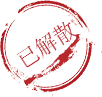
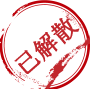
修改切换班级样式

diff --git a/js/interestPractice/classList.js b/js/interestPractice/classList.js
@@ -5,7 +5,7 @@ $(function () {
     inquireClass()
 });
 
-
+//“不了” 关闭弹窗
 $(".without-footer .withdraw-refuse ").click(function () {
     $(".without-class").toggle();
 });
@@ -22,6 +22,7 @@ function withdrawClass(id) {
     $(".without-class").toggle();
     $(".without-class .without-footer .withdraw-sure").attr("onclick", "exitClass(" + id + ")");
 }
+
 //退出班级
 function exitClass(id) {
     var url = "studentClass/deleteStudentClass.do";
@@ -37,12 +38,6 @@ function exitClass(id) {
     })
 }
 
-//添加班级按钮
-function addClass() {
-    $(".without-class .without-body").html("<span>班级编号：</span><input class='append-class' placeholder='请输入你想加入的班级'><p class='add-notice'></p>");
-    $(".without-class .without-footer .withdraw-sure").attr("onclick", "addNewclass()");
-    $(".without-class").show();
-}
 
 //添加班级
 function addNewclass() {
@@ -60,6 +55,13 @@ function addNewclass() {
             $(".empty-tips").text(message)
         }
     })
+}
+
+//添加班级按钮
+function addClass() {
+    $(".without-class .without-body").html("<span>班级编号：</span><input class='append-class' placeholder='请输入你想加入的班级'><p class='add-notice'></p>");
+    $(".without-class .without-footer .withdraw-sure").attr("onclick", "addNewclass()");
+    $(".without-class").show();
 }
 
 
@@ -98,7 +100,7 @@ function inquireClass() {
                             "</li>");
                         _classWrap.append(_classList);
                     } else {
-                        _classList = $("<li><p class='class-name' >" + d.grade + "年级" + d.name + "</p>" +
+                        _classList = $("<li><p class='class-name' >" + d.grade + "年级" + d.name + "(" + d.classId + ")" + "</p>"  +
                             "<p class='class-number'>" + d.totalStudent + "人</p>" +
                             "<p class='completed-work'>待完成作业</p>" +
                             "<p class='completed-work-text'><span class='finished-work'>" + d.complateHomework + "</span>/<span class='total-work'>" + d.totalHomework + "</span></p>" +
@@ -117,4 +119,3 @@ function inquireClass() {
         } else {}
     })
 }
-

diff --git a/js/interestPractice/myClass.js b/js/interestPractice/myClass.js
@@ -15,6 +15,7 @@ function jumpMate() {
     var id = getParam("id");
     window.location.href = './myClassmate.html?id=' + id;
 }
+
 //作业模考切换
 $(".task-title li").click(function () {
     $(this).addClass("current").siblings().removeClass("current");
@@ -64,21 +65,29 @@ function getClass() {
             var noCurrent = [];
             for (var i = 0; i < data.length; i++) {
                 if (data[i].id == _current) {
-                    $("#currentClass").text(data[i].grade + '年级' + data[i].name)
+                    $("#currentClass").text(data[i].grade + '年级' + data[i].name + '(' + data[i].classId + ')')
                 } else {
                     noCurrent.push(data[i]);
                 }
             }
             for (var i = 0; i < noCurrent.length; i++) {
-                var _getList = "";
-                var d = noCurrent[i];
-                _getList = $("<li>" + d.grade + "年级" + d.name + "</li>");
-                _getClass.prepend(_getList);
+                if (noCurrent[i].diss != null) {
+                    console.log(data[i].diss);
+                    var _getList = "";
+                    var d = noCurrent[i];
+                    _getList = $("<li onclick=\"choiceClass(" + d.id + ")\">" + d.grade + "年级" + d.name + "(" + d.classId + ")" + "</li>");
+                    _getClass.prepend(_getList);
+                }
+
             }
         }
     })
 }
+
 //切换班级选中状态
+function choiceClass(id) {
+    window.location.href = './myClass.html?id=' + id;
+}
 
 //获取作业信息
 function getWork() {

diff --git a/css/interestPractice/myClass.css b/css/interestPractice/myClass.css
@@ -57,7 +57,6 @@ body {
     margin-left: 4px;
     background: #fff;
     border-radius: 5px;
-    position: relative;
 }
 
 #footer {
@@ -72,11 +71,11 @@ body {
     height: 48px;
     padding-top: 20px;
     margin: 0 auto;
-    /*background: #f0ad4e;*/
     font-size: 16px;
     font-weight: 300;
     letter-spacing: 1px;
     color: #333;
+    position: relative;
 }
 
 .present-class p,
@@ -88,29 +87,34 @@ body {
     float: right;
     cursor: pointer;
 }
-.present-class .my-classmate img{
+
+.present-class .my-classmate img {
     width: 21px;
     height: 28px;
     vertical-align: bottom;
     margin-right: 5px;
 }
+
 .present-class #present-class {
     font-size: 18px;
     color: #00a0e9;
 }
 
 #currentClass {
-    width: 125px;
-    margin: 0 5px;
+    width: 135px;
+    margin: 0 9px 0 5px;
     font-size: 16px;
+    text-overflow: ellipsis;
+    white-space: nowrap;
+    overflow: hidden;
 }
 
 .class-list {
     display: none;
     position: absolute;
     top: 45px;
-    left: 255px;
-    width: 130px;
+    left: 223px;
+    width: 140px;
     height: 100px;
     border-radius: 5px;
     box-shadow: 0 0 7px 1px rgba(0, 160, 233, 0.28);
@@ -123,8 +127,12 @@ body {
 .class-list li {
     cursor: pointer;
     padding-left: 5px;
+    text-overflow: ellipsis;
+    white-space: nowrap;
+    overflow: hidden;
 }
-.class-list li.choice{
+
+.class-list li:hover {
     color: #00a0e9;
 }
 

diff --git a/css/interestPractice/classList.css b/css/interestPractice/classList.css
@@ -191,8 +191,8 @@ body {
 }
 
 .class-wrap li .class-disbanded {
-    width: 102px;
-    height: 97px;
+    width: 90px;
+    height: 89px;
     border-radius: 50%;
     position: absolute;
     top: 0;
